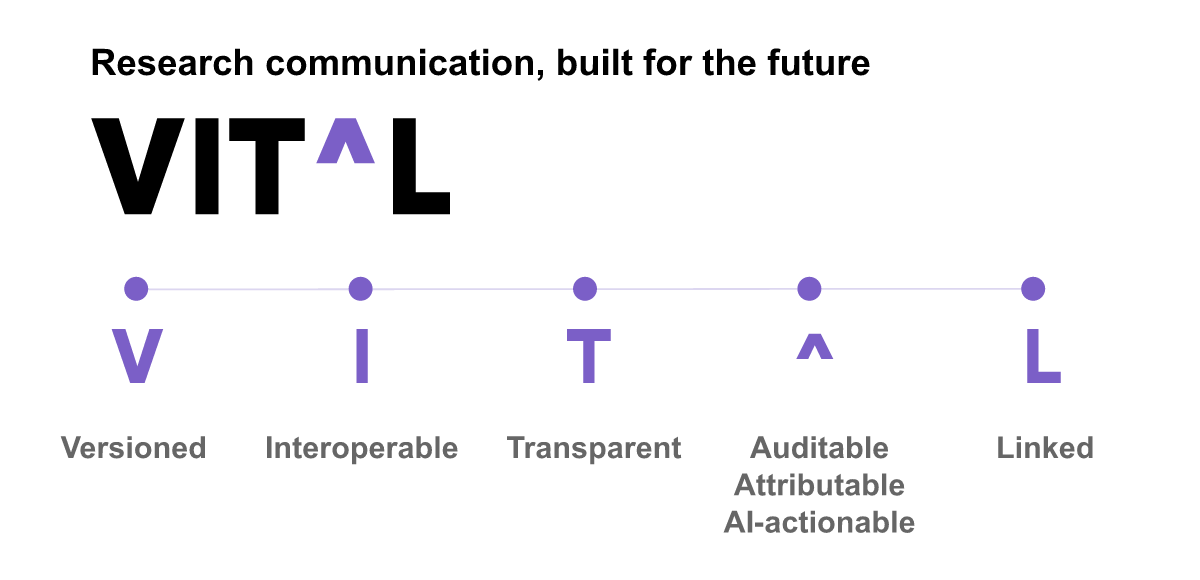
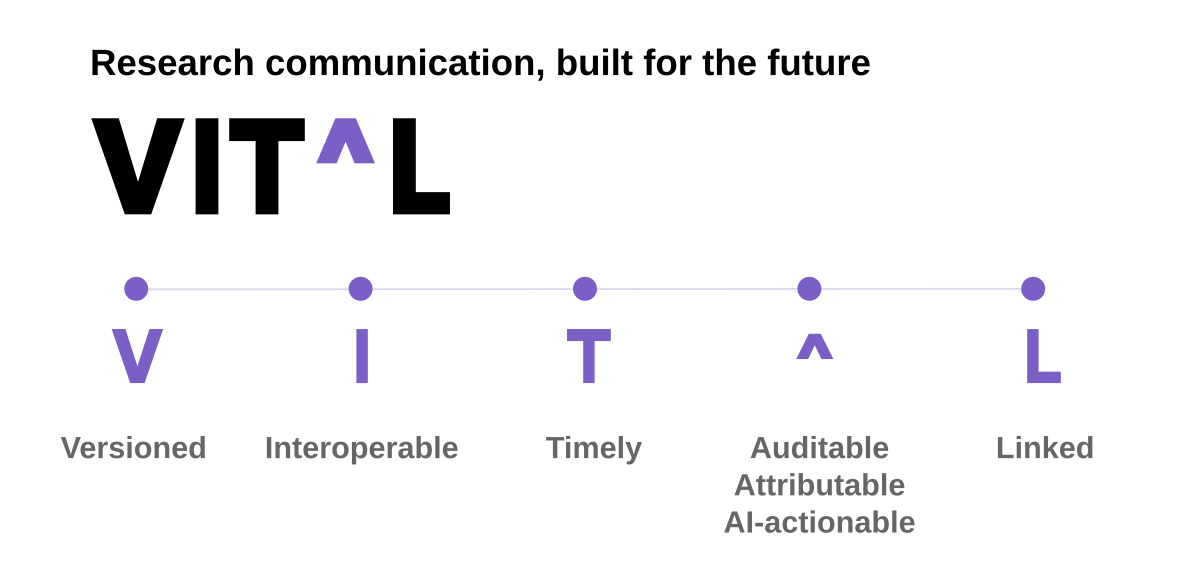
Merge pull request #1 from convergence-science/fix/vital-timely
Correct VIT^L "T": Transparent → Timely

diff --git a/content/2026-11-03-vital/index.md b/content/2026-11-03-vital/index.md
@@ -7,12 +7,12 @@ abstract: |
   networked, as early as possible in ways that are checkable.
 parts:
   # The banner image's alt text, read out by screen readers.
-  banner-alt: 'VIT^L: research communication, built for the future. A row of five purple dots, one for each letter of V, I, T, ^, and L, labeled Versioned, Interoperable, Transparent, Auditable, Attributable, and AI-actionable (all three under the ^), and Linked.'
+  banner-alt: 'VIT^L: research communication, built for the future. A row of five purple dots, one for each letter of V, I, T, ^, and L, labeled Versioned, Interoperable, Timely, Auditable, Attributable, and AI-actionable (all three under the ^), and Linked.'
 ---
 
 The data is clean and analyzed. The code runs. The results hold up. And then, for a lot of researchers, the work sits for months while someone writes the paper. The article often doesn't include the data and code, and by the time it goes through the publication process, the team has moved on and opportunities to engage with the work early, iterate, and build upon it are delayed and sometimes lost.
 
-That gap is where a new framework from an action collaborative of the US National Academies' Roundtable on Aligning Incentives for Open Science starts. The Action Collaborative calls its proposal VIT^L, Versioned, Interoperable, Transparent, Auditable, Attributable, and AI-Actionable, and Linked. It sets out how research communication, done well and alongside the research rather than after it, can make the work actionable by humans and machines alike, helping to accelerate research outcomes and their benefits to society.
+That gap is where a new framework from an action collaborative of the US National Academies' Roundtable on Aligning Incentives for Open Science starts. The Action Collaborative calls its proposal VIT^L, Versioned, Interoperable, Timely, Auditable, Attributable, and AI-Actionable, and Linked. It sets out how research communication, done well and alongside the research rather than after it, can make the work actionable by humans and machines alike, helping to accelerate research outcomes and their benefits to society.
 
 From these efforts, we have launched a new conference for the broader open science, open source, research reform, research impact, and research integrity community to come together and shape the VIT^L framework and its associated initiatives. The conference is Convergence scheduled for June 16-18, 2027 in Montreal, directly following the [Metascience 2027](https://metascience.info) conference.
 
@@ -26,7 +26,7 @@ Our answer is a set of properties research communication should have:
 
 - **Versioned.** Work is released as labeled, identifiable versions, so its development and corrections are visible.
 - **Interoperable.** Outputs and their metadata follow open standards and move between platforms without losing context.
-- **Transparent.** Data, code, protocols, and checks are identifiable, available, and understandable.
+- **Timely.** Research outputs are openly shared as soon as the researcher deems them ready. Checks, reviews, and curation follow and accumulate on the record as signals.
 - **Auditable.** Every check is on the record, and every claim links to its evidence.
 - **Attributable.** Credit goes to whoever made each piece, from a dataset to a figure, and follows it wherever it's reused.
 - **AI-actionable.** People and machines can rerun analyses, reuse data, or test results directly, without rebuilding them from a narrative.
